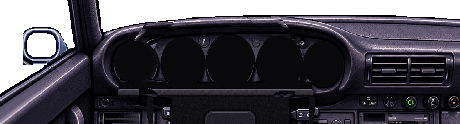
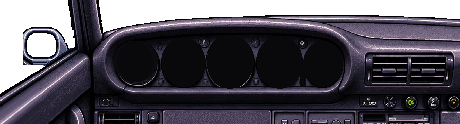
v0.49.1: cabine do Silber 95 com o painel da arte sem volante (sem reconstrução atrás do volante)
Claude-Session: https://claude.ai/code/session_01MLD9VR7gkmY4w6a9beZcp6

diff --git a/src/cockpit.ts b/src/cockpit.ts
@@ -712,10 +712,9 @@ COCKPIT_ART['br-santana'] = {
 };
 queueMicrotask(() => faceImg(SN_FACE)); // a foto da revista (interiorPhoto) precisa do fundo do quadro já carregado
 
-// Silber 95 (Porsche 959): interior do Victor (tools/ref/silber_cockpit.py, no molde do Savana: por enquanto só
-// a arte COM volante; o painel atrás do aro, dos raios e da almofada é reconstruído até chegar a sem volante;
-// volante de quatro raios centrado no conta-giros, "SILBER 95" na almofada, vidros e limpadores recortados,
-// retrovisor esquerdo completado, porta construída até a borda) e o quadro da FOTO DO QUADRO REAL
+// Silber 95 (Porsche 959): interior do Victor (tools/ref/silber_cockpit.py, no molde do Savana: painel da arte
+// SEM volante, volante de quatro raios da arte com volante centrado no conta-giros, "SILBER 95" na almofada,
+// vidros e limpadores recortados, retrovisor esquerdo prata completado, porta construída até a borda) e o quadro da FOTO DO QUADRO REAL
 // (tools/ref/silber_gauges.py): no meio, o combinado do óleo (temperatura 40-170 com a faixa vermelha e
 // pressão 0-5, eixos escondidos atrás da ilha das luzes vermelhas), o conta-giros 0-8 com a faixa laranja
 // e o manômetro do turbo 0-2,5 bar embaixo, e o velocímetro 20-340 com hodômetro e parcial; nos de fora,

diff --git a/tools/ref/silber_cockpit.py b/tools/ref/silber_cockpit.py
@@ -1,32 +1,34 @@
-"""Cabine do Silber 95 (Porsche 959) a partir da arte do Victor (por enquanto só a versão COM volante;
-a sem volante vem depois), no molde de santana_cockpit.py:
+"""Cabine do Silber 95 (Porsche 959) a partir das duas artes do Victor, no molde de santana_cockpit.py:
+- painel: a arte SEM volante (cab-nowheel.png, 1670x942: a última linha, do banco, sobra; no resto bate com
+  a com volante, deslocamento abaixo de 1 px). Sem ela, o que fica atrás do volante é RECONSTRUÍDO a
+  partir da arte com volante (rebuild, mantido só como reserva): o aro de cima sobre o para-brisa vira
+  vidro; no capuz do quadro e no painel cada linha continua a textura dos dois lados (bridge); a borda de
+  baixo do capuz é refeita com o perfil medido embaixo do relógio da direita (LIP); dentro do aro o painel
+  de baixo anda junto com o volante (DX) e atrás da almofada entra o vão escuro com a capa da coluna
 - volante de quatro raios (aro, barra de cima, barra de baixo e a almofada) recortado da arte com volante:
-  aro pela elipse medida e os quatro vãos (o do quadro, os dois dos lados da almofada e o de baixo) por
-  contorno. O volante anda DX px para a direita para ficar centrado no conta-giros (como no carro de
-  verdade: o aro emoldura os três mostradores do meio)
+  aro pela elipse medida e os quatro vãos (o do quadro, os dois dos lados da almofada, até a costura do
+  aro, e o de baixo) por contorno; pixels vermelhos (ponteiro da arte na borda do aro) saem. O volante
+  anda DX px para a direita para ficar centrado no conta-giros (como no carro de verdade: o aro emoldura
+  os três mostradores do meio)
 - "PORSCHE 959" da almofada sai (textura da própria almofada) e entra "SILBER 95" no mesmo baixo-relevo
-- painel: se houver cab-nowheel.png na pasta, ele é usado direto (só falta medir de novo DASH_TOP e as
-  sementes, se a arte nova vier deslocada). Sem ela, o que fica atrás do volante é RECONSTRUÍDO
-  (rebuild): o aro de cima sobre o para-brisa vira vidro; no capuz do quadro e no painel cada linha
-  continua a textura dos dois lados (bridge); a borda de baixo do capuz do quadro é refeita com o perfil
-  medido embaixo do relógio da direita (LIP); embaixo do quadro, dentro do aro, o painel de baixo anda
-  junto com o volante (a coluna de direção, as alavancas e o vão escuro da arte, deslocados DX), e atrás
-  da almofada e das barras entra o vão escuro com a capa da coluna de direção
 - vidros: o cenário (parede de tijolos e estacionamento) é inundado a partir de sementes dentro de cada
   vidro (para-brisa, janela da porta, vidro do retrovisor esquerdo); o contorno preto do carro segura.
   Ilhas do cenário (palhetas, rejunte) são fechadas
 - os limpadores da arte saem (o jogo desenha os dele, na chuva): o vidro desce até a borda de cima do
-  painel (DASH_TOP, medida na arte: o contorno preto acima do friso claro do painel)
+  painel (DASH_TOP, medida na arte sem volante: o contorno preto acima do friso claro do painel)
 - retrovisor interno e haste saem (o jogo desenha o dele); o forro e as duas luzes de teto ficam
-- retrovisor externo esquerdo: a arte o corta na borda; a moldura arredondada da direita (sem a aba presa
-  à porta) é refletida e vira a esquerda, fora da arte (área construída), e o meio continua igual
+- retrovisor externo esquerdo: o vidro é o que o contorno de dentro da moldura fecha em volta de
+  MIR_SEED; a carcaça, azul na arte sem volante, volta à cor prata da arte com volante pelo brilho
+  (silver; o carro é prata). A arte o corta na borda: a moldura arredondada da direita (sem a aba presa à
+  porta) é refletida e vira a esquerda, fora da arte (área construída), e o meio continua igual
 - à esquerda da arte (telas largas) a porta é construída: cada linha continua na própria inclinação
   (ponto de fuga medido no friso claro e na borda da janela), nunca espelhada nem esticada
-- os cinco mostradores ficam com o fundo liso da arte: o quadro refeito (silber_gauges.py) cobre cada um
-  (aro cromado + fundo), e o jogo desenha ponteiros, tambores e luzes
+- os cinco mostradores ficam com fundo liso (os da arte sem volante estão no mesmo lugar que os da com
+  volante, DIALS vale para as duas): o quadro refeito (silber_gauges.py) cobre cada um (aro cromado +
+  fundo), e o jogo desenha ponteiros, tambores e luzes
 Escala 0,34 (pixel 8:7), volante na mesma escala, pivô do volante em (128, 104).
-Uso: python3 tools/ref/silber_cockpit.py <pasta com cab-wheel.png [e cab-nowheel.png]> <src/assets/cockpit>
-     (DBG=<pasta> grava as máscaras e o painel reconstruído para conferência)
+Uso: python3 tools/ref/silber_cockpit.py <pasta com cab-wheel.png e cab-nowheel.png> <src/assets/cockpit>
+     (DBG=<pasta> grava as máscaras e o painel para conferência)
 """
 import os
 import sys
@@ -48,13 +50,15 @@ RIM_IN = (522.0, 496.0, 242.0, 264.0)    # a de dentro é mais funda embaixo (ar
 # no vão do quadro a face de dentro do aro (escura, com a costura) é mais larga: o vão é o contorno de
 # dentro dessa faixa, medido na arte (da barra de cima, à esquerda, até a barra, à direita)
 TOP_IN = [(300, 453), (304, 440), (310, 420), (318, 400), (330, 380), (342, 360), (357, 340), (373, 320), (392, 300), (412, 284),
-          (440, 270), (470, 262), (500, 259), (530, 258), (568, 262), (605, 280), (632, 299), (668, 316), (696, 339), (715, 362), (735, 391), (742, 420),
+          (440, 270), (470, 262), (500, 259), (530, 258), (568, 260), (588, 264), (605, 270), (622, 281), (632, 291), (668, 316), (696, 339), (715, 362), (735, 391), (742, 420),
           (738, 440), (728, 456)]
 # vãos do volante (arte com volante); o lado de fora de cada um é a elipse de dentro do aro
 HOLES = [
     [(250, 150), (800, 150), (800, 437), (760, 441), (740, 444), (700, 450), (650, 453), (400, 453), (340, 449), (310, 438), (290, 428), (250, 420)],  # quadro
-    [(294, 470), (330, 468), (347, 480), (347, 610), (294, 610)],                                         # esquerdo (sem a costura do aro)
-    [(752, 474), (712, 474), (693, 480), (693, 612), (752, 612)],                                         # direito
+    # dos lados da almofada o vão vai até a elipse de dentro (a costura do aro fica): as alavancas e o painel
+    # da arte com volante saem, atrás entra o painel da arte sem volante
+    [(250, 470), (330, 468), (347, 480), (347, 610), (250, 610)],                                         # esquerdo
+    [(800, 474), (712, 474), (693, 480), (693, 612), (800, 612)],                                         # direito
     [(250, 642), (800, 642), (800, 800), (250, 800)],                                                     # de baixo
 ]
 # sementes de cada vidro (x, y): para-brisa, janela da porta esquerda (em cima e embaixo do retrovisor),
@@ -62,9 +66,9 @@ HOLES = [
 SEEDS = [(600, 150), (1300, 150), (60, 150), (60, 250), (20, 350), (1640, 150), (1625, 250)]
 WIPER_Y = 205                   # daqui para baixo ficam as palhetas da arte
 # borda de cima do painel (x, y: a primeira das 3 linhas do contorno preto acima do friso claro)
-DASH_TOP = [(190, 323), (200, 320), (250, 308), (300, 299), (400, 291), (450, 285), (500, 283), (540, 281), (600, 280), (700, 279),
-            (800, 278), (900, 278), (1000, 279), (1050, 280), (1100, 283), (1150, 284), (1200, 287), (1250, 290), (1300, 294),
-            (1350, 300), (1400, 306), (1450, 316), (1482, 325)]
+DASH_TOP = [(190, 324), (200, 320), (250, 309), (300, 301), (400, 290), (450, 287), (500, 285), (540, 283), (600, 282), (700, 279),
+            (800, 278), (900, 278), (1000, 280), (1050, 281), (1100, 283), (1150, 284), (1200, 287), (1250, 290), (1300, 295),
+            (1350, 300), (1400, 307), (1450, 316), (1482, 325)]   # remedida na arte sem volante
 IMIRROR = (688, 56, 992, 172)   # retrovisor interno e haste (abaixo do forro)
 LP = 125                        # folga construída à esquerda (px da arte)
 VP = (444.0, 183.0)             # ponto de fuga das linhas da porta (friso claro e borda da janela)
@@ -73,6 +77,10 @@ VP = (444.0, 183.0)             # ponto de fuga das linhas da porta (friso claro
 MIR_Y = (309, 407)
 MIR_A, MIR_R, MIR_M, MIR_X0 = 34, 62, 22, -46
 MIR_BOX = (0, 300, 100, 410)    # caixa do retrovisor esquerdo (moldura não é ilha do cenário)
+MIR_SEED = (20, 350)            # dentro do vidro do retrovisor esquerdo
+# retrovisores externos (caixa, semente do vidro): na arte sem volante a carcaça veio azul; o carro é prata
+# (o da direita fica fora do recorte do painel)
+MIRRORS = [((0, 300, 100, 410), MIR_SEED)]
 # mostradores (centro, raio do aro na arte): o quadro refeito cobre cada um
 DIALS = [(284, 399, 52), (426, 400, 64), (563, 399, 69), (709, 400, 68), (836, 404, 58)]
 GAP = (770, 398, 786, 462)     # entre o velocímetro e o da direita: sobras da luz laranja da arte
@@ -258,12 +266,14 @@ def glass_mask(img, forced):
     tt = top[np.clip(xx, 0, W - 1)]
     g |= span & (yy >= WIPER_Y) & (yy < tt)
     g &= ~(span & (yy >= tt))
-    # retrovisor esquerdo: o cenário vaza pelas frestas do contorno para a moldura prateada; na caixa
-    # dele vale a cor: vidro azul (vira o espelho do jogo) (verde-azulado) e cenário (asfalto, pouco azul); a caixa e a moldura são azul-acinzentadas
+    # retrovisor esquerdo: o cenário vaza pelas frestas do contorno para a moldura; na caixa dele o vidro é
+    # o que o contorno preto de dentro da moldura fecha em volta da semente MIR_SEED (a moldura da arte nova
+    # é azul como o vidro: a cor não separa) e fora da moldura sai o cenário (asfalto, pouco azul)
     x0, y0, x1, y1 = MIR_BOX
     rr, gg, bb = (img[y0:y1, x0:x1, i].astype(int) for i in range(3))
     lu = (rr + gg + bb) / 3
-    vid = ((bb - rr > 35) & (gg - rr > 12)).astype(np.uint8)
+    n, lab = cv2.connectedComponents((lu >= 40).astype(np.uint8), connectivity=4)
+    vid = (lab == lab[MIR_SEED[1] - y0, MIR_SEED[0] - x0]).astype(np.uint8)
     n, lab, st, _ = cv2.connectedComponentsWithStats(1 - vid, connectivity=4)
     for i in range(1, n):
         if st[i, cv2.CC_STAT_AREA] < 60:   # pintinhas escuras dentro do vidro
@@ -280,6 +290,32 @@ def glass_mask(img, forced):
         if st[i, cv2.CC_STAT_AREA] < 2500 and not (x < MIR_BOX[2] and MIR_BOX[1] < y < MIR_BOX[3]):
             g[lab == i] = True
     return g
+
+
+def silver(nw, ww):
+    """carcaça dos retrovisores externos: a arte sem volante a trouxe azul, mas o carro é prata. Cada pixel
+    azul da carcaça (fora do vidro) vira a cor prata da arte com volante (mesmo desenho, mesmo lugar) pelo
+    brilho: tabela brilho -> cor montada com a mediana dos pixels da arte com volante em cada faixa"""
+    for (x0, y0, x1, y1), (sx, sy) in MIRRORS:
+        a = nw[y0:y1, x0:x1].astype(int)
+        b = ww[y0:y1, x0:x1].astype(int)
+        lu = a.mean(axis=2)
+        n, lab = cv2.connectedComponents((lu >= 40).astype(np.uint8), connectivity=4)
+        vid = lab == lab[sy - y0, sx - x0]
+        body = (a[..., 2] - a[..., 0] > 15) & ~vid
+        lw = b.mean(axis=2)
+        bins = np.clip((lu / 8).astype(int), 0, 31)
+        lut = np.zeros((32, 3))
+        ok = np.zeros(32, bool)
+        for k in range(32):
+            m = body & (bins == k) & (b[..., 2] - b[..., 0] < 45)   # na arte com volante: carcaça, não vidro
+            if m.sum() >= 4:
+                lut[k], ok[k] = np.median(b[m], axis=0), True
+        ks = np.nonzero(ok)[0]
+        for c in range(3):
+            lut[:, c] = np.interp(np.arange(32), ks, lut[ks, c])
+        reg = nw[y0:y1, x0:x1]
+        reg[body] = lut[bins[body]].astype(np.uint8)
 
 
 def clean(img):
@@ -394,13 +430,15 @@ def main():
     wheel = wheel_mask((H, W))
     nwp = os.path.join(d, 'cab-nowheel.png')
     if os.path.exists(nwp):
-        nw = np.array(Image.open(nwp).convert('RGB'))
+        nw = np.array(Image.open(nwp).convert('RGB'))[:H]   # 942 linhas: a de baixo (banco) sobra
         forced = np.zeros((H, W), bool)
         print('painel da arte sem volante')
     else:
         nw, forced = rebuild(ww, wheel)
-        print('painel reconstruído atrás do volante (falta a arte sem volante)')
+        print('painel reconstruído atrás do volante (sem cab-nowheel.png na pasta)')
     g = glass_mask(nw, forced)
+    if os.path.exists(nwp):
+        silver(nw, ww)
     nw = clean(nw)
     dials(nw)
     if dbg:
@@ -460,6 +498,7 @@ def main():
     xs = PIV_W[0] + (np.arange(256) + 0.5 - PIV_N[0]) * PXW
     ys = PIV_W[1] + (np.arange(WROWS) + 0.5 - (PIV_N[1] + WTOP)) * PXH
     w_rgb, w_al = sample(wart, xs, ys), sample(wheel, xs, ys) & (ys < H)[:, None]
+    w_al &= w_rgb[..., 0].astype(int) - w_rgb[..., 2] <= 40   # pontas do ponteiro vermelho da arte na borda do aro
     wimg = np.dstack([w_rgb, w_al.astype(np.uint8) * 255])
     tx = PIV_N[0] + ((EMB_TXT[0] + EMB_TXT[2]) / 2 - PIV_W[0]) * S
     ty = PIV_N[1] + WTOP + ((EMB_TXT[1] + EMB_TXT[3]) / 2 - PIV_W[1]) / PXH

diff --git a/CLAUDE.md b/CLAUDE.md
@@ -11,8 +11,8 @@
   depois do santana_sprites.py rodar santana_rear_panel.py e santana_side_lamp.py)
   (Voyage LS 1986: voyage_sprites.py, voyage_cockpit.py, voyage_gauges.py, voyage_photos.py). O Ímola de
   quatro portas saiu do jogo (a cabine do cupê continua nos arquivos br-monzasedan-*).
-  O Silber 95 (959) está em atualização: exterior e capas novos, cabine parcial (falta a arte sem
-  volante; vem depois). Os demais (Toro LP5, ZR1, Patrol, Vectra, Kadett, Corsa, Uno, Passat, Pumas) ficam como estão
+  O Silber 95 (959) está atualizado: exterior, capas e cabine completa (painel da arte sem volante,
+  volante da arte com volante; tools/ref/silber_cockpit.py e silber_gauges.py). Os demais (Toro LP5, ZR1, Patrol, Vectra, Kadett, Corsa, Uno, Passat, Pumas) ficam como estão
   até a arte nova chegar, para não haver retrabalho: nada de retoques, retrovisores ou quadros neles.
   O LP5 tem fotos de revista, mas o carro ainda não foi atualizado. Na dúvida, perguntar.
 
